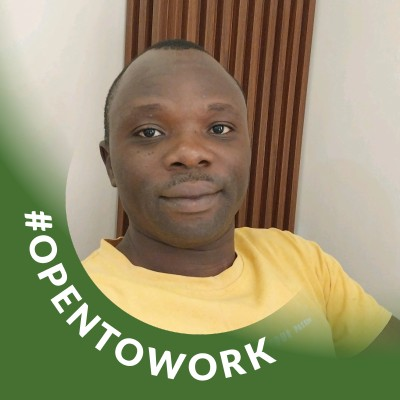
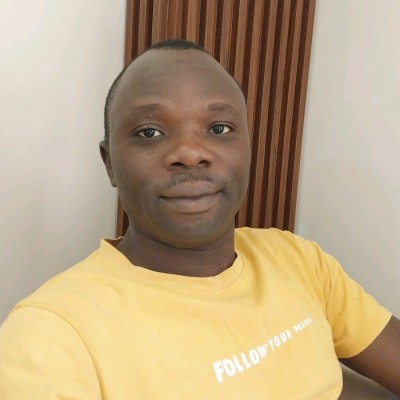
update sidebar and other stylings

diff --git a/_includes/sidebar.html b/_includes/sidebar.html
@@ -1,0 +1,147 @@
+<!-- The Side Bar -->
+
+<aside aria-label="Sidebar" id="sidebar" class="d-flex flex-column align-items-end">
+  <header class="profile-wrapper">
+    <a href="{{ '/' | relative_url }}" id="avatar" class="rounded-circle">
+      {%- if site.avatar != empty and site.avatar -%}
+        {%- capture avatar_url -%}
+          {% include media-url.html src=site.avatar %}
+        {%- endcapture -%}
+        <img src="{{- avatar_url -}}" width="112" height="112" alt="avatar" onerror="this.style.display='none'">
+      {%- endif -%}
+    </a>
+
+    <a class="site-title d-block" href="{{ '/' | relative_url }}">{{ site.title }}</a>
+    <p class="site-subtitle fst-italic mb-0">{{ site.tagline }}</p>
+  </header>
+  <!-- .profile-wrapper -->
+
+  <nav class="flex-column flex-grow-1 w-100 ps-0">
+    <ul class="nav">
+      <!-- home -->
+      <li class="nav-item{% if page.layout == 'home' %}{{ " active" }}{% endif %}">
+        <a href="{{ '/' | relative_url }}" class="nav-link">
+          <i class="fa-fw fas fa-home"></i>
+          <span>{{ site.data.locales[include.lang].tabs.home }}</span>
+        </a>
+      </li>
+      <!-- the real tabs -->
+      {% for tab in site.tabs %}
+        <li class="nav-item{% if tab.url == page.url %}{{ " active" }}{% endif %}">
+          <a href="{{ tab.url | relative_url }}" class="nav-link">
+            <i class="fa-fw {{ tab.icon }}"></i>
+            {% capture tab_name %}{{ tab.url | split: '/' }}{% endcapture %}
+
+            <span>{{ site.data.locales[include.lang].tabs.[tab_name] | default: tab.title }}</span>
+          </a>
+        </li>
+        <!-- .nav-item -->
+      {% endfor %}
+    </ul>
+  </nav>
+
+  <div class="sidebar-bottom d-flex flex-wrap align-items-center w-100">
+    {% unless site.theme_mode == 'light' or site.theme_mode == 'dark' %}
+      {%- capture icon_system -%}
+        <i class="fa-solid fa-display" data-theme-mode="system"></i>
+      {%- endcapture -%}
+
+      {%- capture icon_light -%}
+        <i class="fa-regular fa-sun" data-theme-mode="light"></i>
+      {%- endcapture -%}
+
+      {%- capture icon_dark -%}
+        <i class="fa-regular fa-moon" data-theme-mode="dark"></i>
+      {%- endcapture -%}
+
+      <div class="btn-group dropup">
+        <button
+          type="button"
+          class="btn btn-link nav-link"
+          aria-label="Switch Mode"
+          id="mode-toggle"
+          data-bs-toggle="dropdown"
+        >
+          {{- icon_light -}}
+          {{- icon_dark -}}
+          {{- icon_system -}}
+        </button>
+        <ul class="dropdown-menu rounded-3 mb-1 p-1">
+          <li>
+            <button class="dropdown-item d-flex align-items-center" type="button" data-theme-mode="light">
+              {{- icon_light -}}
+              {{- site.data.locales[lang].theme.light -}}
+            </button>
+          </li>
+          <li>
+            <button class="dropdown-item d-flex align-items-center" type="button" data-theme-mode="dark">
+              {{- icon_dark -}}
+              {{- site.data.locales[lang].theme.dark -}}
+            </button>
+          </li>
+          <li>
+            <button class="dropdown-item d-flex align-items-center" type="button" data-theme-mode="system">
+              {{- icon_system -}}
+              {{- site.data.locales[lang].theme.system -}}
+            </button>
+          </li>
+        </ul>
+      </div>
+
+      {% if site.data.contact.size > 0 %}
+        <span class="icon-border"></span>
+      {% endif %}
+    {% endunless %}
+
+    {% for entry in site.data.contact %}
+      {%- assign url = null -%}
+
+      {% case entry.type %}
+        {% when 'github', 'twitter' %}
+          {%- unless site[entry.type].username -%}
+            {%- continue -%}
+          {%- endunless -%}
+          {%- capture url -%}
+            https://{{ entry.type }}.com/{{ site[entry.type].username }}
+          {%- endcapture -%}
+        {% when 'email' %}
+          {%- unless site.social.email -%}
+            {%- continue -%}
+          {%- endunless -%}
+          {%- assign email = site.social.email | split: '@' -%}
+          {%- capture url -%}
+            javascript:void(location.href = 'mailto:' + ['{{ email[0] }}','{{ email[1] }}'].join('@'))
+          {%- endcapture -%}
+        {% when 'rss' %}
+          {% assign url = '/feed.xml' | relative_url %}
+        {% else %}
+          {% assign url = entry.url %}
+      {% endcase %}
+
+      {% if url %}
+        <a
+          href="{{ url }}"
+          aria-label="{{ entry.type }}"
+          {% assign link_types = '' %}
+
+          {% unless entry.noblank %}
+            target="_blank"
+            {% assign link_types = 'noopener noreferrer' %}
+          {% endunless %}
+
+          {% if entry.type == 'mastodon' %}
+            {% assign link_types = link_types | append: ' me' | strip %}
+          {% endif %}
+
+          {% unless link_types == empty %}
+            rel="{{ link_types }}"
+          {% endunless %}
+        >
+          <i class="{{ entry.icon }}"></i>
+        </a>
+      {% endif %}
+    {% endfor %}
+  </div>
+  <!-- .sidebar-bottom -->
+</aside>
+<!-- #sidebar -->

diff --git a/_layouts/home.html b/_layouts/home.html
@@ -11,9 +11,9 @@ layout: default
     <p class="lead">I’m Tope Taiwo, a full-stack engineer focused on backend systems, APIs, and production applications with TypeScript, Node.js, PostgreSQL, and cloud technologies.</p>
     <p>I work across architecture and implementation, with an emphasis on clear boundaries, maintainability, and solving practical product problems.</p>
     <p class="d-flex flex-wrap gap-2">
-      <a class="btn btn-primary" href="{{ '/projects/' | relative_url }}">Explore selected work</a>
+      <a class="btn btn-outline-primary" href="{{ '/projects/' | relative_url }}">Explore selected work</a>
       <a class="btn btn-outline-primary" href="{{ '/resume/' | relative_url }}">View résumé</a>
-      <a class="btn btn-outline-secondary" href="mailto:{{ site.social.email }}?subject=Hiring%20inquiry%20%E2%80%94%20Tope%20Taiwo">Hire Me</a>
+      <a class="btn btn-outline-primary" href="mailto:{{ site.social.email }}?subject=Hiring%20inquiry%20%E2%80%94%20Tope%20Taiwo">Hire Me</a>
     </p>
   </section>
 

diff --git a/assets/css/jekyll-theme-chirpy.scss b/assets/css/jekyll-theme-chirpy.scss
@@ -163,7 +163,9 @@
   border: 1px solid var(--card-border-color, rgba(128, 128, 128, 0.25));
   border-radius: 0.9rem;
   background: var(--card-bg, rgba(128, 128, 128, 0.035));
-  transition: border-color 160ms ease, transform 160ms ease;
+  transition:
+    border-color 160ms ease,
+    transform 160ms ease;
 
   &:hover {
     border-color: var(--link-color);

diff --git a/README.md b/README.md
@@ -39,7 +39,7 @@ The deployment workflow validates post titles, dates, categories, and tags
 before building the site. Jekyll excludes posts dated in the future and keeps
 published posts available afterward. A daily scheduled build at 08:05
 `Africa/Lagos` time makes posts dated for that day available without requiring a
-new commit. Use an `Africa/Lagos` publication time of 08:00 or earlier so the
+new commit. Using an `Africa/Lagos` publication time of 08:00 or earlier so the
 scheduled build includes the post; GitHub may delay scheduled workflow runs.
 
 ## Comments and listening
@@ -48,12 +48,6 @@ Comments support both Utterances and Disqus. Utterances links a GitHub issue to
 each post by its URL; the repository's Issues feature must remain enabled, and
 the Utterances GitHub App must be installed with access to this repository.
 Readers need a GitHub account to comment or react there.
-
-For guest comments, create a Disqus site and set its shortname in
-`comments.disqus.shortname` in `_config.yml`. Enable guest commenting and
-configure moderation in the Disqus dashboard. Visitors can then comment through
-Disqus without a GitHub account. The two comment systems are shown separately
-on each post.
 
 Post pages also include a read-aloud control that uses the browser's built-in
 speech synthesis. Available voices and playback behavior depend on the reader's

diff --git a/_tabs/about.md b/_tabs/about.md
@@ -5,8 +5,6 @@ order: 1
 description: About Tope Taiwo, a full-stack software engineer focused on backend systems, TypeScript, and maintainable production software.
 ---
 
-# About Me
-
 I’m **Tope Taiwo**, a full-stack software engineer with a backend focus. I build applications and services with TypeScript and Node.js, and work across the surrounding web, data, and infrastructure layers.
 
 My experience includes modular backend systems, APIs, authentication and authorization, multi-tenant products, asynchronous workflows, and relational data. I enjoy work where reliability and maintainability matter alongside delivery.

diff --git a/_tabs/archives.md b/_tabs/archives.md
@@ -4,6 +4,4 @@ icon: fas fa-archive
 order: 4
 ---
 
-# Archives
-
 Explore my technical articles and engineering notes by publication date.
